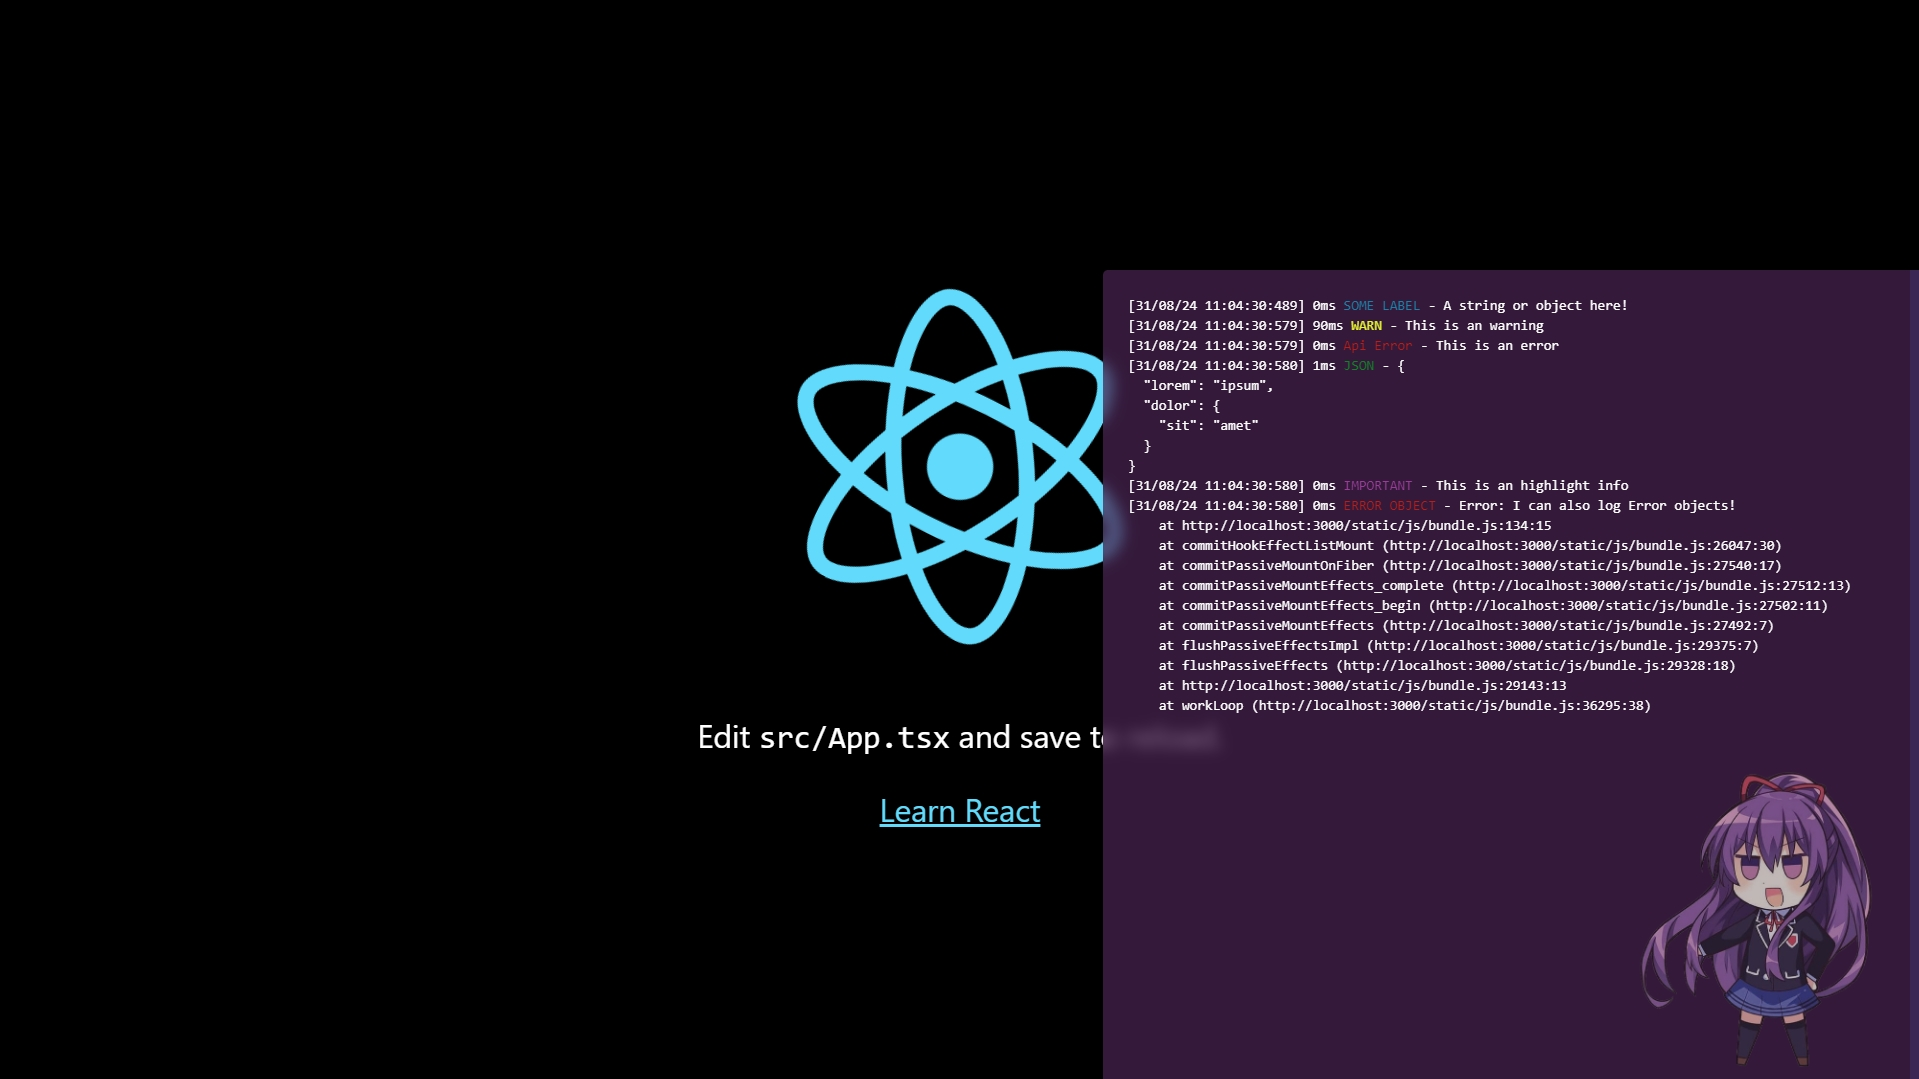
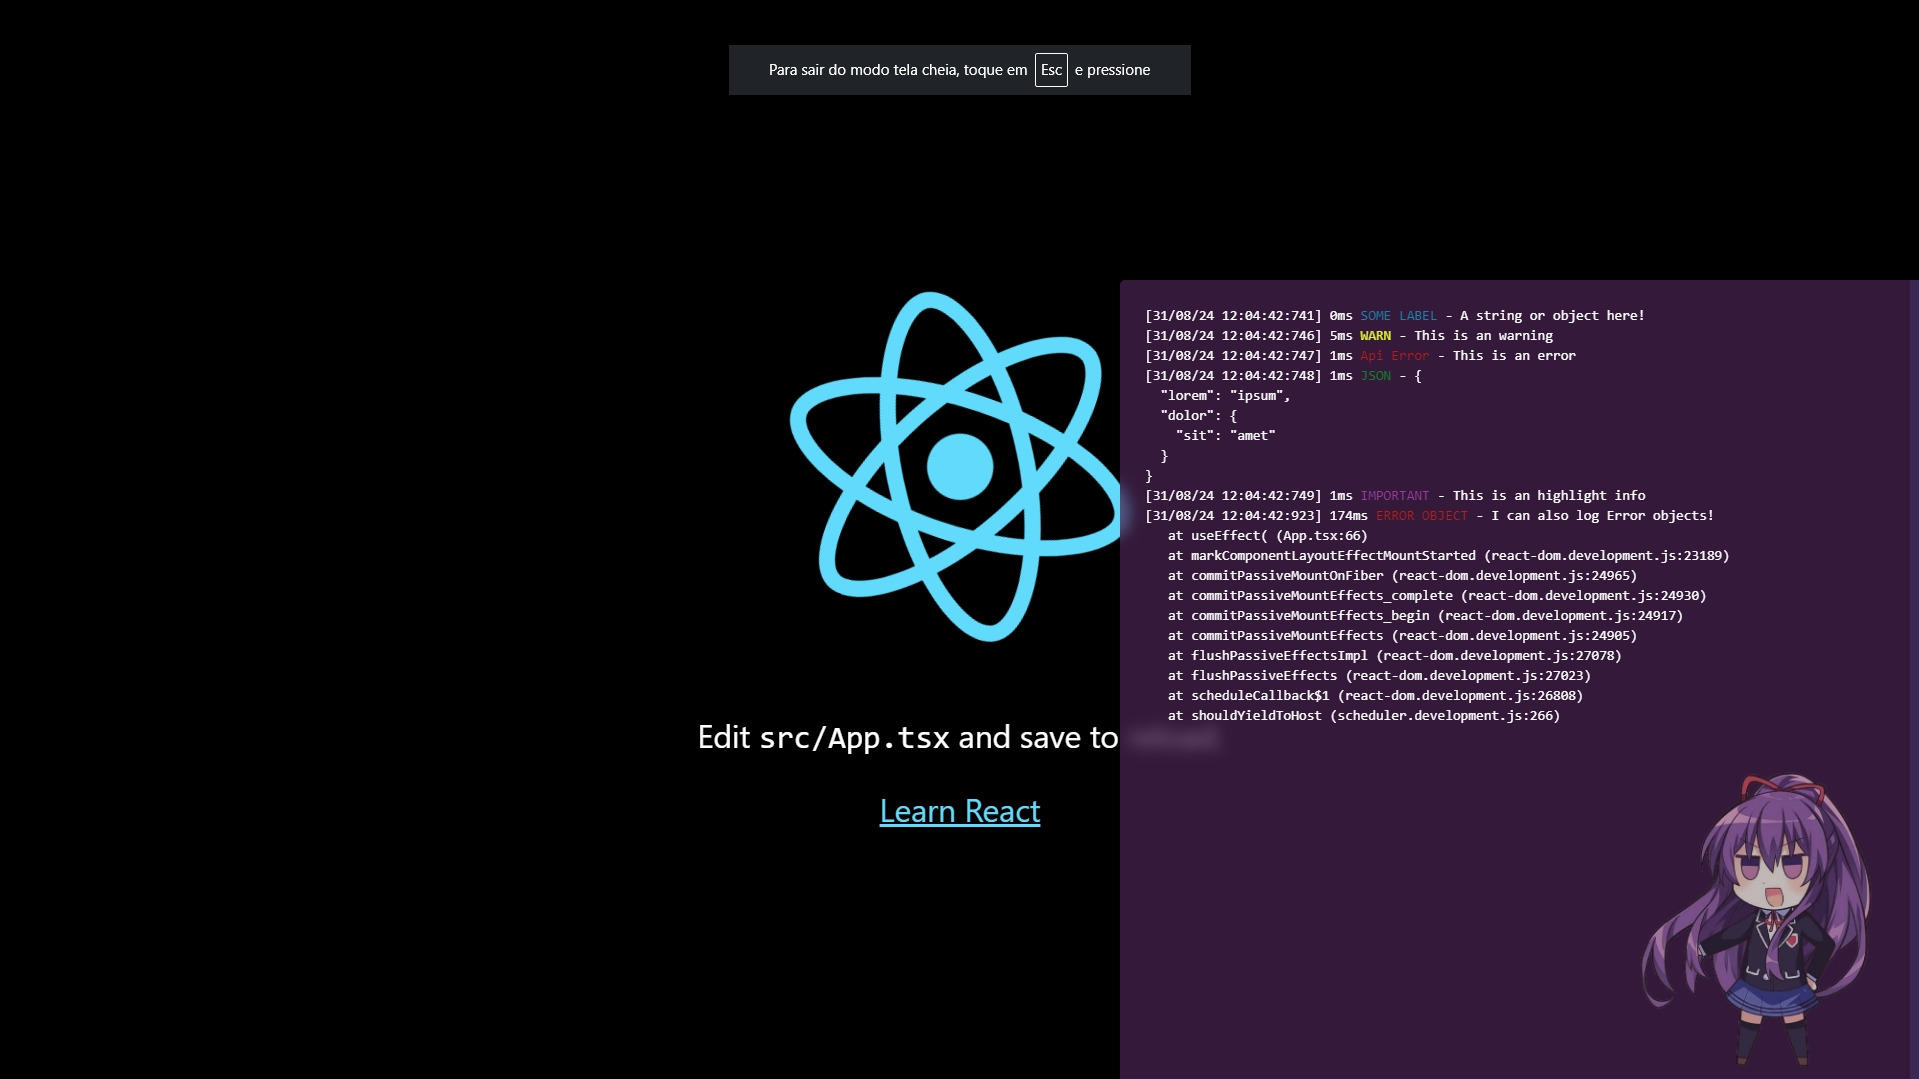
fix(stacktrace.js): forgot to import stacktrace.js... don't look at me

Changed region(s): [[0.3997, 0.2447, 1.0, 1.0], [0.3689, 0.0306, 0.6456, 0.0918]]

diff --git a/src/index.ts b/src/index.ts
@@ -4,6 +4,7 @@ import { BORDER_RADIUS, SCROLLBAR_WIDTH, WAIFU_SIZE, WAIFU_THEME } from './const
 import WeebLoggerCanvasHandler from './CanvasHandler'
 import { IWeebLog, IWeebLoggerConfig } from './interfaces';
 import { IWeebRequiredLoggerConfig, LogType } from './types';
+import StackTraceJS from 'stacktrace-js';
 
 const isNode = typeof process === 'object' && `${process}` === '[object process]';
 
@@ -341,7 +342,7 @@ class WeebLogger {
     if (formattedMessage instanceof Error) {
       if (this.config.formatStackTrace) {
         try {
-          formattedMessage = formatErrorWithStackTrace(formattedMessage.message, await StackTrace.fromError(formattedMessage));
+          formattedMessage = formatErrorWithStackTrace(formattedMessage.message, await StackTraceJS.fromError(formattedMessage));
         } catch {
           formattedMessage = (formattedMessage as Error).stack ?? (formattedMessage as Error).message;
         }
